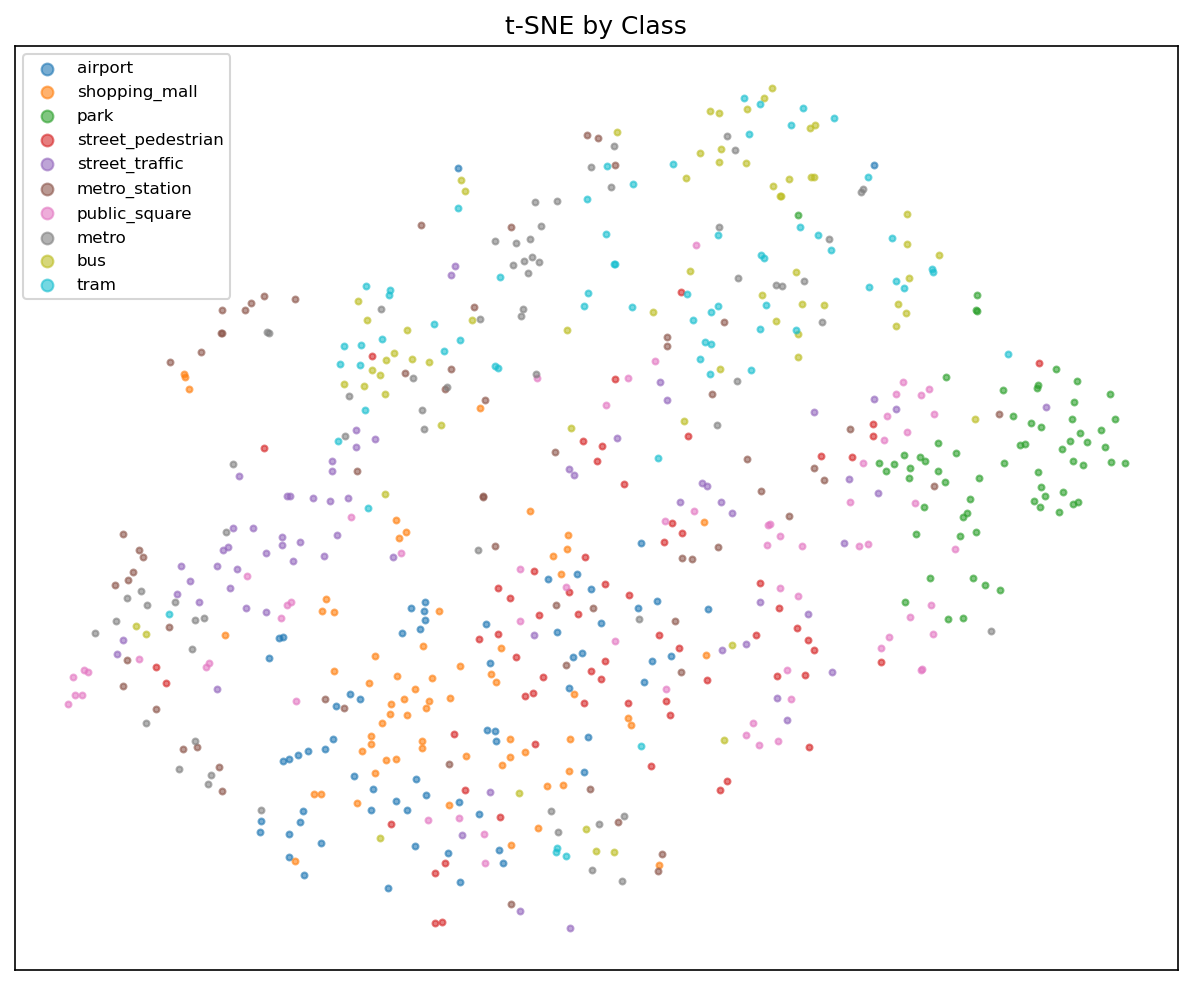
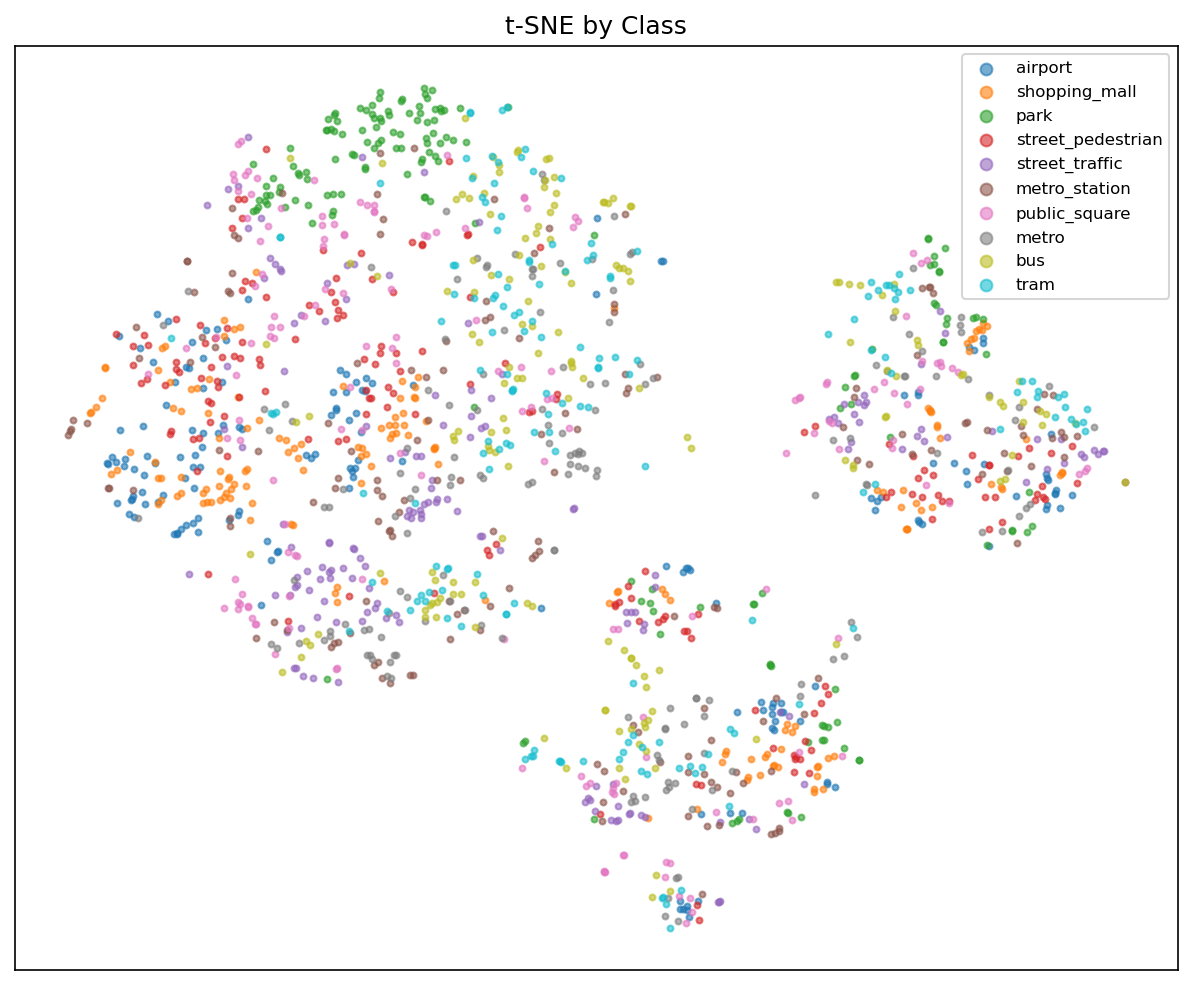
Refactor code structure for improved readability and maintainability

diff --git a/visualize.py b/visualize.py
@@ -18,6 +18,10 @@ Usage examples:
     python visualize.py --method cst --checkpoint-dir results/cst-mfdwc-a-b \
         --data-path /DATA/G3/Datasets/... --devices b
 
+    # Multi-model evaluation (each target device uses its own best model)
+    python visualize.py --method baseline --checkpoint-base-dir results/mfdwc-cnn/ \
+        --data-path /DATA/G3/Datasets/... --devices b,c,s1,s2,s3
+
     # Plot training curves only (no model loading needed)
     python visualize.py --csv-dir results/mfdwc-grl/csv_logs --plot-curves-only
 
@@ -125,6 +129,49 @@ def _find_checkpoint(directory, prefix):
             f"No checkpoint matching '{prefix}*.pth' found in {directory}"
         )
     return matches[0]
+
+
+def load_models_per_device(method, base_dir, src_device, device):
+    """Load per-device models from checkpoint subdirectories.
+
+    Scans base_dir for subdirectories matching '{src_device}-{tgt_device}'
+    (e.g. a-b/, a-c/) and loads each model independently.
+
+    Returns:
+        (mfdwc_extractor, models_dict) where models_dict maps
+        target_device_name -> (feature_extractor, classifier)
+    """
+    models_dict = {}
+    shared_mfdwc = None
+
+    # Pattern 1: subdirectories like a-b/, a-c/, a-s1/ inside base_dir
+    for entry in sorted(os.listdir(base_dir)):
+        subdir = os.path.join(base_dir, entry)
+        if not os.path.isdir(subdir):
+            continue
+        if not entry.startswith(f"{src_device}-"):
+            continue
+        tgt_name = entry[len(f"{src_device}-"):]
+        # Skip non-device dirs (e.g. csv_logs, plots)
+        if tgt_name not in ALL_TARGET_DEVICES:
+            continue
+        try:
+            mfdwc_ext, feat_ext, clf, _ = load_models(method, subdir, device)
+            models_dict[tgt_name] = (feat_ext, clf)
+            if shared_mfdwc is None:
+                shared_mfdwc = mfdwc_ext
+        except FileNotFoundError as e:
+            print(f"  Warning: skipping {entry}/ — {e}")
+
+    if not models_dict:
+        raise FileNotFoundError(
+            f"No per-device checkpoint subdirectories (e.g. {src_device}-b/) "
+            f"found in {base_dir}"
+        )
+
+    print(f"\nLoaded {len(models_dict)} per-device model(s): "
+          f"{list(models_dict.keys())}")
+    return shared_mfdwc, models_dict
 
 
 # ==============================================================================
@@ -577,6 +624,9 @@ def parse_args():
                         help='Training method (determines classifier type)')
     parser.add_argument('--checkpoint-dir', type=str,
                         help='Path to experiment directory with best_FE_*.pth and best_CL_*.pth')
+    parser.add_argument('--checkpoint-base-dir', type=str,
+                        help='Base directory with per-device subdirs (e.g. results/mfdwc-cnn/) '
+                             'for multi-model evaluation where each target device uses its own model')
     parser.add_argument('--data-path', type=str,
                         help='Path to TAU dataset root')
     parser.add_argument('--src-device', type=str, default='a',
@@ -600,6 +650,8 @@ def main():
     # Determine output directory
     if args.output_dir:
         output_dir = args.output_dir
+    elif args.checkpoint_base_dir:
+        output_dir = os.path.join(args.checkpoint_base_dir, 'plots_multi_model')
     elif args.checkpoint_dir:
         output_dir = os.path.join(args.checkpoint_dir, 'plots')
     elif args.csv_dir:
@@ -619,10 +671,138 @@ def main():
         print("Done.")
         return
 
-    # --- Full evaluation mode ---
+    # --- Multi-model evaluation mode (per-device best models) ---
+    if args.checkpoint_base_dir:
+        if not all([args.method, args.data_path]):
+            print("Error: --method and --data-path are required "
+                  "with --checkpoint-base-dir.")
+            sys.exit(1)
+
+        if not args.output_dir:
+            output_dir = os.path.join(args.checkpoint_base_dir, 'plots_multi_model')
+            os.makedirs(output_dir, exist_ok=True)
+
+        device = torch.device('cuda' if torch.cuda.is_available() else 'cpu')
+        tgt_devices = [d.strip() for d in args.devices.split(',')]
+        print(f"Method: {args.method} (multi-model per-device)")
+        print(f"Source: {args.src_device}, Targets: {tgt_devices}")
+        print(f"Device: {device}")
+        print(f"Output: {output_dir}")
+
+        # Load per-device models
+        mfdwc_ext, models_dict = load_models_per_device(
+            args.method, args.checkpoint_base_dir, args.src_device, device
+        )
+
+        # Filter to requested devices
+        available = [d for d in tgt_devices if d in models_dict]
+        missing = [d for d in tgt_devices if d not in models_dict]
+        if missing:
+            print(f"Warning: no models found for devices {missing}, skipping them")
+        tgt_devices = available
+
+        if not tgt_devices:
+            print("Error: no per-device models matched the requested --devices.")
+            sys.exit(1)
+
+        # Build test loaders
+        loaders = build_all_test_loaders(
+            args.data_path, src_device=args.src_device,
+            batch_size=args.batch_size
+        )
+
+        # Pick the first available model for source device evaluation
+        first_tgt = tgt_devices[0]
+        src_fe, src_clf = models_dict[first_tgt]
+
+        # Extract features and predictions — each device uses its own model
+        print("\nExtracting features and predictions (per-device models)...")
+        results = {}
+
+        # Source device
+        print(f"  Processing source device '{args.src_device}' (using {args.src_device}-{first_tgt} model)...")
+        results[args.src_device] = extract_features_and_predictions(
+            mfdwc_ext, src_fe, src_clf, loaders[args.src_device], device, method=args.method
+        )
+        n = len(results[args.src_device]['true_labels'])
+        acc = 100.0 * (results[args.src_device]['predictions'] == results[args.src_device]['true_labels']).mean()
+        print(f"    {n} samples, accuracy: {acc:.2f}%")
+
+        # Target devices — each with its own model
+        for tgt_dev in tgt_devices:
+            feat_ext, clf = models_dict[tgt_dev]
+            print(f"  Processing device '{tgt_dev}' (using {args.src_device}-{tgt_dev} model)...")
+            results[tgt_dev] = extract_features_and_predictions(
+                mfdwc_ext, feat_ext, clf, loaders[tgt_dev], device, method=args.method
+            )
+            n = len(results[tgt_dev]['true_labels'])
+            acc = 100.0 * (results[tgt_dev]['predictions'] == results[tgt_dev]['true_labels']).mean()
+            print(f"    {n} samples, accuracy: {acc:.2f}%")
+
+        # Overall accuracy summary
+        all_true = np.concatenate([r['true_labels'] for r in results.values()])
+        all_pred = np.concatenate([r['predictions'] for r in results.values()])
+        overall_acc = 100.0 * (all_pred == all_true).mean()
+        print(f"\n  Overall accuracy ({len(all_true)} samples): {overall_acc:.2f}%")
+
+        tgt_res = {k: v for k, v in results.items() if k != args.src_device}
+        if tgt_res:
+            tgt_true = np.concatenate([r['true_labels'] for r in tgt_res.values()])
+            tgt_pred = np.concatenate([r['predictions'] for r in tgt_res.values()])
+            tgt_acc = 100.0 * (tgt_pred == tgt_true).mean()
+            print(f"  Target-only accuracy ({len(tgt_true)} samples): {tgt_acc:.2f}%")
+
+        # --- Extract features using a single shared FE for t-SNE ---
+        # Per-device FEs live in different feature spaces, which causes t-SNE
+        # to trivially cluster by device rather than by class.  Using one
+        # shared FE puts all devices into the same feature space.
+        print("\nExtracting features for t-SNE (shared feature extractor)...")
+        tsne_results = {}
+        for dev_name in [args.src_device] + tgt_devices:
+            print(f"  Processing device '{dev_name}' (shared FE from "
+                  f"{args.src_device}-{first_tgt} model)...")
+            tsne_results[dev_name] = extract_features_and_predictions(
+                mfdwc_ext, src_fe, src_clf, loaders[dev_name], device,
+                method=args.method
+            )
+
+        # --- Generate plots ---
+        print("\nGenerating t-SNE plots (CNN features, shared FE)...")
+        plot_tsne(tsne_results, output_dir, tag='')
+
+        if args.method == 'cst' and any(r['embeddings'] is not None for r in tsne_results.values()):
+            print("Generating t-SNE plots (CST bottleneck embeddings, shared FE)...")
+            plot_tsne(tsne_results, output_dir, tag='embeddings')
+
+        print("\nGenerating confusion matrices...")
+        for dev_name, res in results.items():
+            plot_confusion_matrix(res['true_labels'], res['predictions'], dev_name, output_dir)
+
+        print("\nGenerating per-class accuracy chart...")
+        plot_per_class_accuracy(results, output_dir)
+
+        print("\nGenerating classification reports...")
+        for dev_name, res in results.items():
+            save_classification_report(res['true_labels'], res['predictions'], dev_name, output_dir)
+
+        # Training curves
+        csv_dir = args.csv_dir
+        if not csv_dir:
+            csv_logs_dir = os.path.join(args.checkpoint_base_dir, 'csv_logs')
+            if os.path.isdir(csv_logs_dir):
+                csv_dir = csv_logs_dir
+        if csv_dir:
+            print(f"\nPlotting training curves from {csv_dir}...")
+            plot_training_curves(csv_dir, output_dir, method=args.method)
+
+        print(f"\nAll outputs saved to {output_dir}")
+        print("Done.")
+        return
+
+    # --- Single-model full evaluation mode ---
     if not all([args.method, args.checkpoint_dir, args.data_path]):
         print("Error: --method, --checkpoint-dir, and --data-path are required "
-              "for full evaluation mode.")
+              "for full evaluation mode (or use --checkpoint-base-dir for multi-model).")
         sys.exit(1)
 
     device = torch.device('cuda' if torch.cuda.is_available() else 'cpu')
